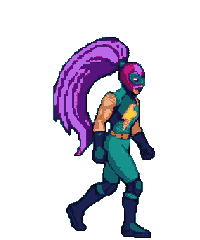
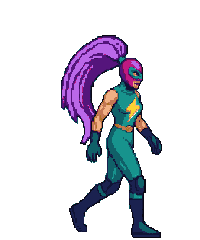
Walk con la tecnica de la stance: hoja 4x2, bloques de 6 y 8 poses reales
La hoja de 20 poses en 5x4 salia con la figura a la mitad de tamano y el
contorno de 1 px de pantalla; al bajar a 200 px el NEAREST se comia el
contorno y el recorte se veia sucio (46-75% del borde sin contorno, frente
al 80% de la stance).

- Hoja nueva 4x2, 1024x1024, bloques de 6, figura de 660 px de pantalla,
  con la hoja aprobada como imagen 1 y el sprite ampliado x4 como imagen 2.
  El borde de la silueta sale al 78-81%, igual que la stance.
- Walk rehecho con 8 poses reales (contacto, abajo, paso, arriba por cada
  pierna), 200x240, suelo 238, eje de cabeza x=128.
- build_sheet: filas por pasillos consecutivos, masa conectada mayor,
  columnas y filas por argumento.
- Guia: seccion con la tecnica de la hoja y la medida de control; style.json
  guarda sheetMethod y sheetPrompt.
- preview/nueva.html: ?v=20.

Changed region(s): [[0.24, 0.1458, 0.81, 0.9917]]

diff --git a/preview/nueva.html b/preview/nueva.html
@@ -117,7 +117,7 @@
 (() => {
   // El archivo no se toca y el escenario no lo escala: 200 nativos, 1:1.
   // ?v= para que el navegador no sirva el PNG viejo de esta misma ruta.
-  window.STAGE_FIGHTER = '../voltia/nueva/stance/00.png?v=19';
+  window.STAGE_FIGHTER = '../voltia/nueva/stance/00.png?v=20';
   // Suelo en el centro del rombo dibujado (spec.floorY es 408, el borde trasero).
   window.STAGE_FLOOR_Y = 426;
   window.STAGE_FIGHTER_SCALE = 1;
@@ -202,7 +202,7 @@
     note.textContent = anim.note || '';
     for (const f of anim.frames) {
       const im = new Image();
-      im.src = '../voltia/' + anim.dir + '/' + f + '?v=19';
+      im.src = '../voltia/' + anim.dir + '/' + f + '?v=20';
       await im.decode();
       imgs.push(im);
     }
@@ -210,7 +210,7 @@
     draw();
   }
   try {
-    const guide = await (await fetch('../voltia/guide/style.json?v=19',
+    const guide = await (await fetch('../voltia/guide/style.json?v=20',
       { cache: 'no-store' })).json();
     window.__GUIDE = guide;
     const entries = Object.entries(guide.anims || {});

diff --git a/tools/build_sheet.py b/tools/build_sheet.py
@@ -12,7 +12,7 @@ Uso:
     PYTHONPATH=tools/pylibs python3 tools/build_sheet.py \
         voltia/nueva/stance/src/sheet_stance.png voltia/nueva/stance 200 240 238
 
-    argumentos: <hoja> <carpeta_salida> <ancho> <alto> <fila_del_suelo>
+    argumentos: <hoja> <carpeta_salida> <ancho> <alto> <fila_del_suelo> [columnas] [filas]
 
 Después de recortar, si el brazo o el guante salen manchados, se pasa
 tools/fix_gloves.py (solo en los frames revisados a mano).
@@ -80,7 +80,7 @@ def _green_spans(flags):
     return out
 
 
-def rows_of_cells(im, ncol=5):
+def rows_of_cells(im, ncol=5, nrows=4):
     """Separa la hoja en filas y columnas usando los pasillos verdes.
 
     Los márgenes verdes de arriba y abajo NO son filas: son separadores. Las
@@ -93,8 +93,16 @@ def rows_of_cells(im, ncol=5):
     px = im.load()
     full_rows = [all(is_green(px[x, y]) for x in range(w)) for y in range(h)]
     spans = _green_spans(full_rows)
-    bands = [(spans[i][1] + 1, spans[i + 1][0] - 1) for i in range(len(spans) - 1)]
+    # los bordes de la hoja cuentan como pasillo: una tirada sin margen
+    # arriba o abajo sigue dando 4 filas
+    edges = [(-1, -1)] + spans + [(h, h)]
+    bands = [(edges[i][1] + 1, edges[i + 1][0] - 1) for i in range(len(edges) - 1)]
     bands = [(a, b) for a, b in bands if b - a >= 8]
+    # una hoja 4x2 (4 columnas, 2 filas) no lleva pasillo en medio: se parte
+    # por la mitad, así que el número de filas se puede forzar
+    if nrows and len(bands) < nrows:
+        hh = h / nrows
+        bands = [(round(i * hh), round((i + 1) * hh) - 1) for i in range(nrows)]
     if not bands:
         raise SystemExit('no encuentro filas de figuras en la hoja')
 
@@ -170,10 +178,11 @@ def cut_figure(cell):
 
 def build(sheet, outdir, cw, ch, ground, ncol=5, nrows=4, write=True):
     im = Image.open(sheet)
-    grid = rows_of_cells(im, ncol)
-    if len(grid) != nrows:
+    grid = rows_of_cells(im, ncol, nrows)
+    if len(grid) > nrows:
         raise SystemExit('la hoja dio %d filas, se esperaban %d' % (len(grid), nrows))
     figs = [cut_figure(grid[j][i]) for j in range(nrows) for i in range(ncol)]
+    figs = [f for f in figs if f.width > 4 and f.height > 4]   # celdas vacías
     factor = (cw * 0.0 + 200) / figs[0].height   # 200 px = 170 cm con coleta
     out = []
     for k, fig in enumerate(figs):
@@ -197,6 +206,8 @@ if __name__ == '__main__':
         raise SystemExit(__doc__)
     sheet, outdir = args[0], args[1]
     cw, ch, ground = int(args[2]), int(args[3]), int(args[4])
-    frames = build(sheet, outdir, cw, ch, ground)
+    ncol = int(args[5]) if len(args) > 5 else 5
+    nrows = int(args[6]) if len(args) > 6 else 4
+    frames = build(sheet, outdir, cw, ch, ground, ncol=ncol, nrows=nrows)
     print('%s -> %s: %d frames de %dx%d, suelo %d'
           % (sheet, outdir, len(frames), cw, ch, ground))

diff --git a/voltia/guide/GUIA.md b/voltia/guide/GUIA.md
@@ -134,6 +134,39 @@ Tres cosas que el prompt arregla y que hay que mantener:
   obedece «hazte más pequeño»; la reducción se hace en código.
 - **Puños con nudillos** y línea del pulgar. Si no, son manchas.
 
+## Técnica de la hoja (la que funciona)
+
+El recorte se ensucia cuando la hoja sale con el dibujo pequeño. La stance se
+generó con la figura **grande** y aguantó; las dos tiradas de 20 poses en 5 × 4
+salieron con la figura a la mitad de tamaño y el contorno de un píxel de
+pantalla, y al bajarlas a 200 px el NEAREST se comía justo ese contorno.
+
+La hoja que aguanta, y que hay que pedir siempre:
+
+- **4 columnas × 2 filas** (8 poses), lienzo **1024 × 1024**.
+- **Bloques de 6 px de pantalla** por píxel de sprite, y figura de **110 px de
+  sprite = 660 px de pantalla** de la suela a la punta del pelo.
+- Imagen 1 = **la hoja ya aprobada**; imagen 2 = **el mismo sprite ampliado ×4**
+  (`voltia/guide/ref/stance_x4.png`) para que copie la factura del contorno.
+- Los 8 poses van nombradas una a una en el prompt (contacto, abajo, paso,
+  arriba, y lo mismo con la otra pierna). Así no se inventa el ciclo.
+
+Antes de recortar, se mide: **el borde de la silueta tiene que dar 78–83 % de
+píxeles de contorno**, como la stance (80 %). Si da menos del 70 %, esa hoja no
+sirve y se tira: es exactamente el defecto que se ve como «recorte sucio».
+
+El corte, siempre con el mismo comando y el mismo lienzo:
+
+```
+PYTHONPATH=tools/pylibs python3 tools/build_sheet.py <hoja> <salida> 200 240 238 4 2
+PYTHONPATH=tools/pylibs python3 tools/centre_by_head.py <salida> --target 128
+```
+
+`build_sheet.py` separa la hoja por los **pasillos verdes consecutivos** (no por
+el margen: si no, el margen de arriba cuenta como fila) y se queda con la **masa
+conectada mayor** de cada celda, que es lo que tira las coletas de las figuras
+vecinas que se cuelan en la celda.
+
 ## Recorte y reducción
 
 El verde se mide en el borde de la imagen. Esta tirada dio `(28, 221, 8)`.
@@ -158,9 +191,17 @@ reducción de paleta, cuando toque, se revisa color a color.
 - Reutilizar es el frame entero en otro momento, no recortar un brazo.
 - La máscara lleva boca: abertura oscura y labio de piel, bajo el visor.
   Sin boca el frame no entra.
+- Bajar la figura con NEAREST es lo que rompe el contorno cuando el factor es
+  pequeño (0,70). Con la hoja 4 × 2 el factor es 0,30 y el contorno viene ya
+  grueso, así que el NEAREST no tiene que «adivinar» nada.
 
 ## Historial
 
+- 2026-10-19. Se apunta la técnica de la hoja 4 × 2: 1024 × 1024, bloques de 6,
+  figura de 660 px de pantalla, imagen 1 la hoja aprobada e imagen 2 el sprite
+  ampliado ×4. Medida de control: 78–83 % de contorno en el borde. El walk de
+  20 poses se tira y se rehace con 8 poses reales (contacto, abajo, paso, arriba
+  por cada pierna).
 - 2026-10-19. Se deja de reducir. El sprite de referencia es el PNG de 1024 × 1024
   tal cual, solo con el verde quitado. La resolución nativa se mide por bloques:
   ~127 de alto, ya en escala de juego.
